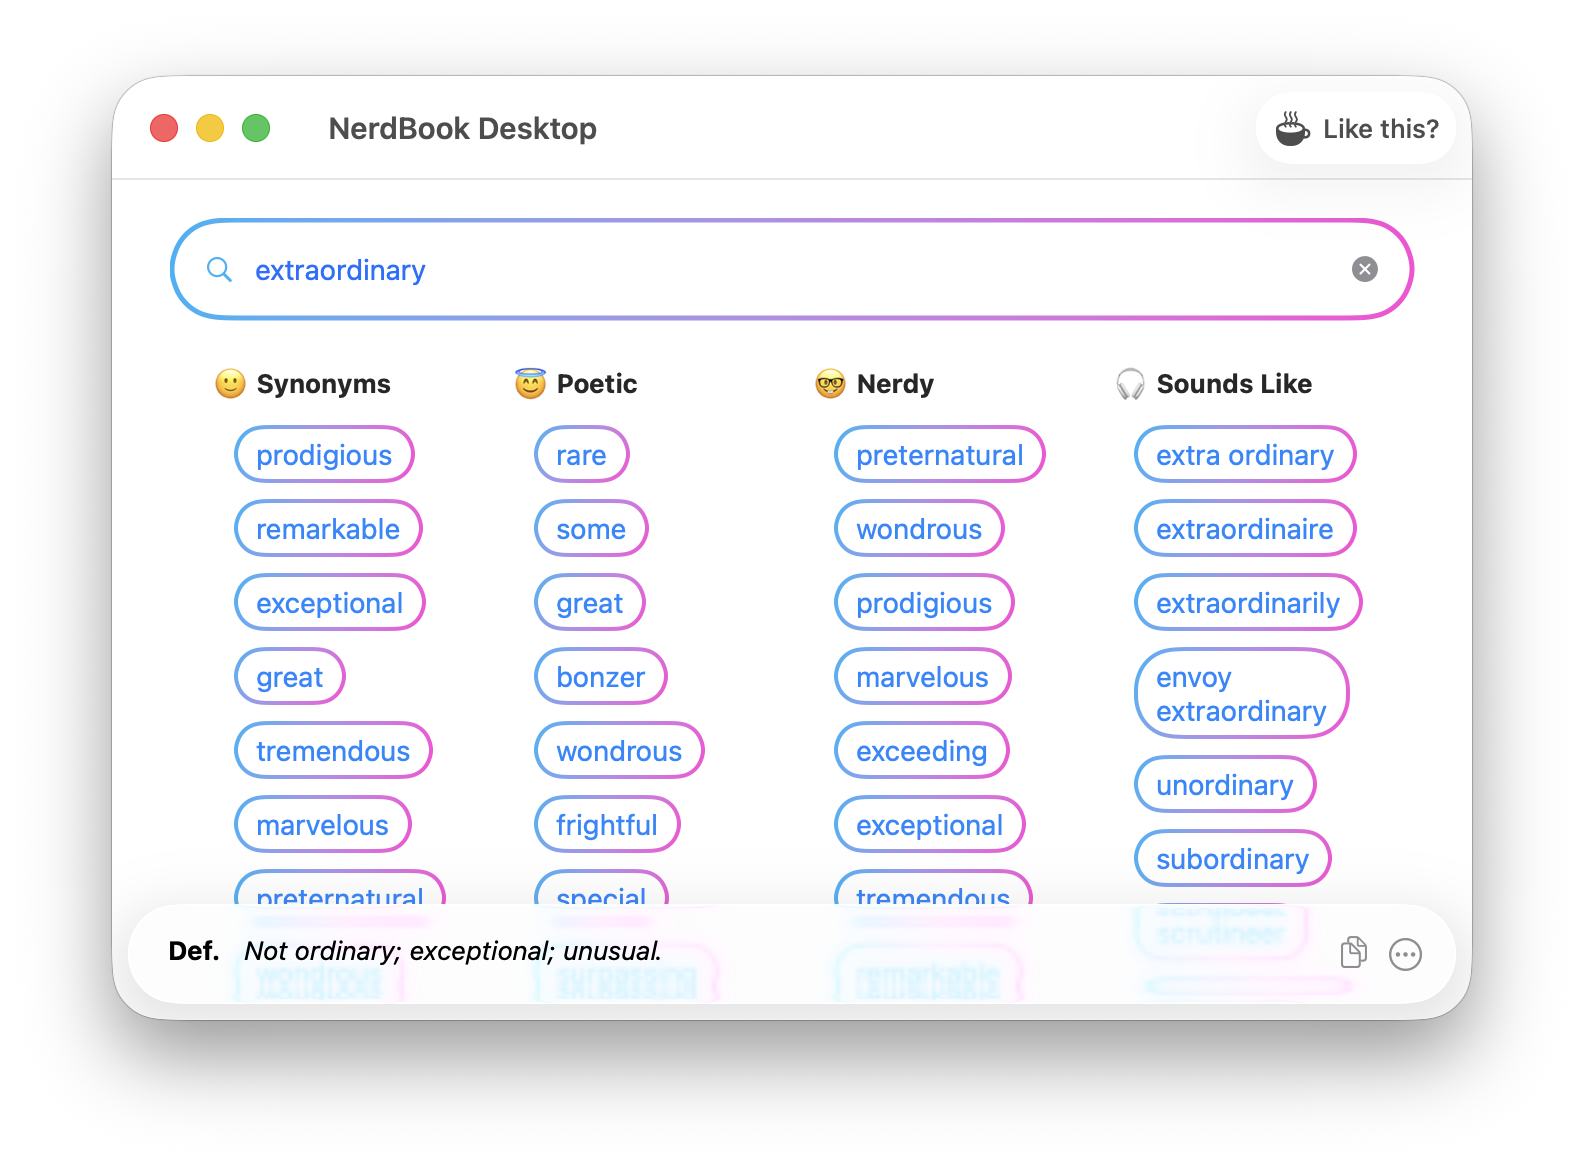
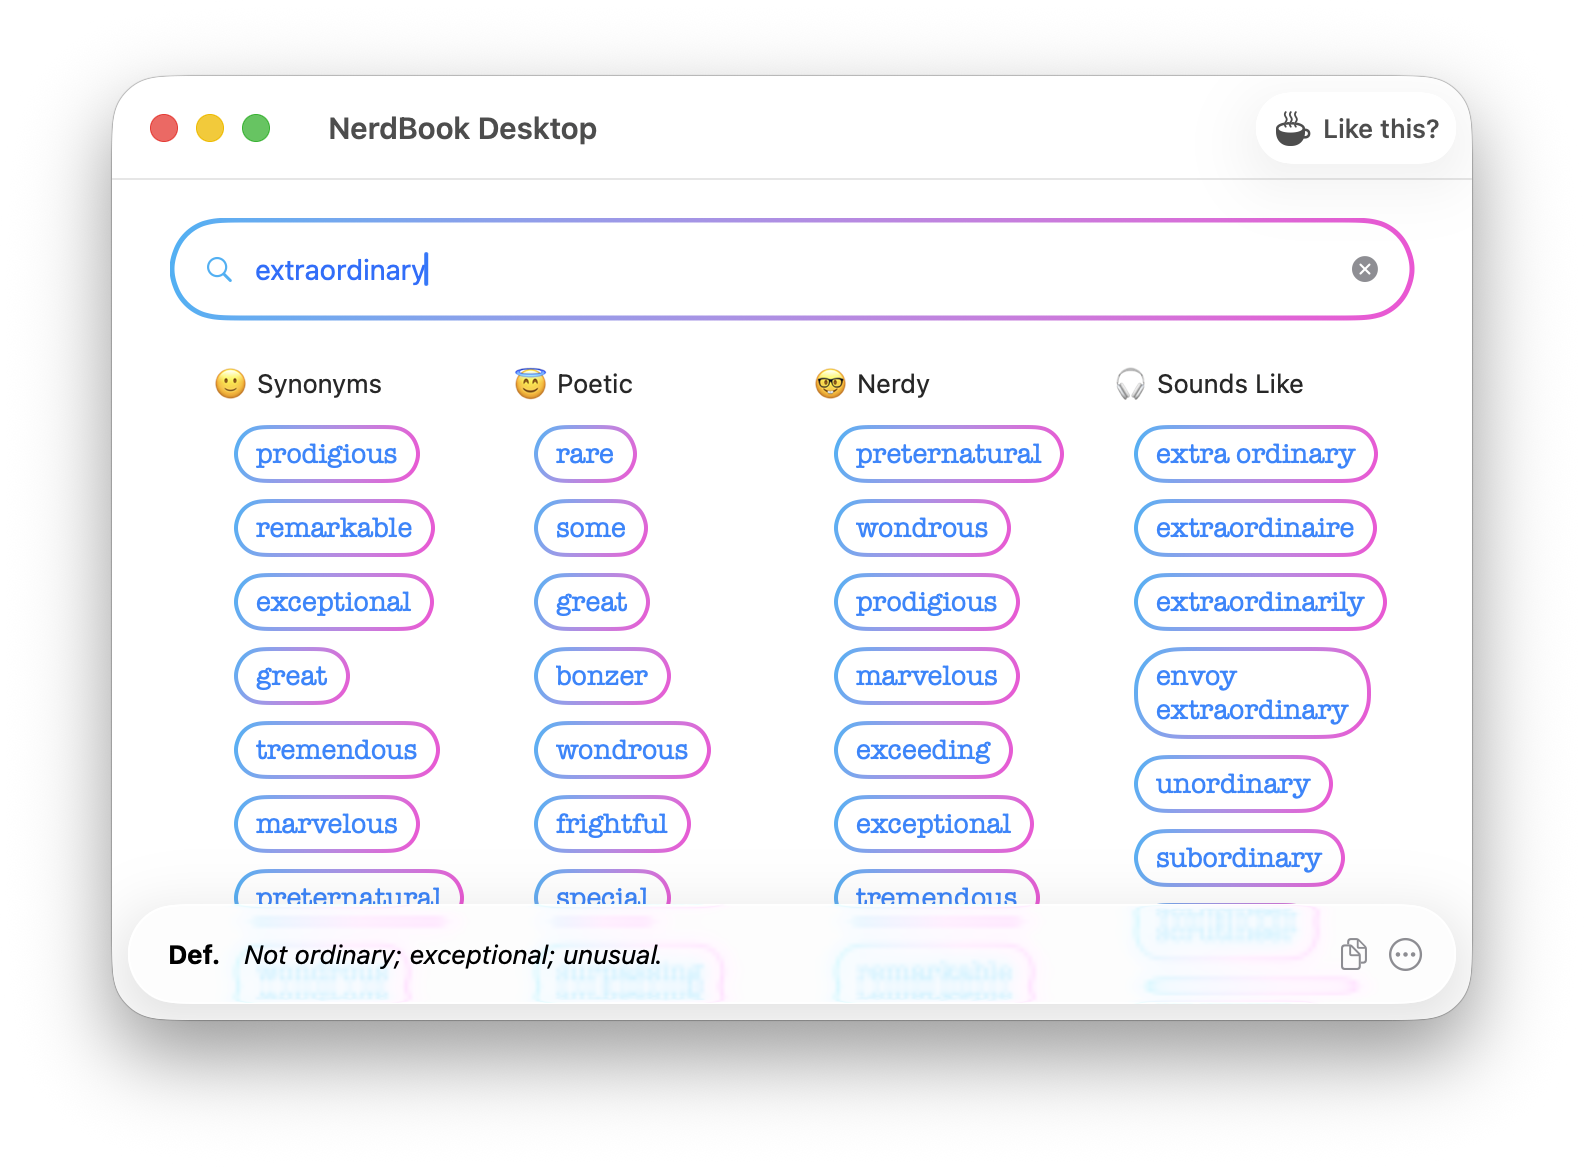
Update README and screenshots

diff --git a/README.md b/README.md
@@ -2,11 +2,13 @@
 
 A word explorer for writers, poets, and language nerds. NerdBook goes beyond a basic thesaurus — it finds synonyms, poetic alternatives, nerdy/pretentious words, and sound-alike matches, all in one view.
 
+![screenshot3 copy.png](/Users/pierosierra/Development/NerdBook/screenshot3%20copy.png)
+
 ![NerdBook Desktop](screenshot.png)
 
 ## What it does
 
-Type any word and NerdBook instantly shows four columns of results:
+The app greets you with a **word of the day** and definition. Then type any word and NerdBook instantly shows four columns of results:
 
 - **Synonyms** — Standard synonyms ranked by relevance
 - **Poetic** — Lyrical, literary alternatives for creative writing
